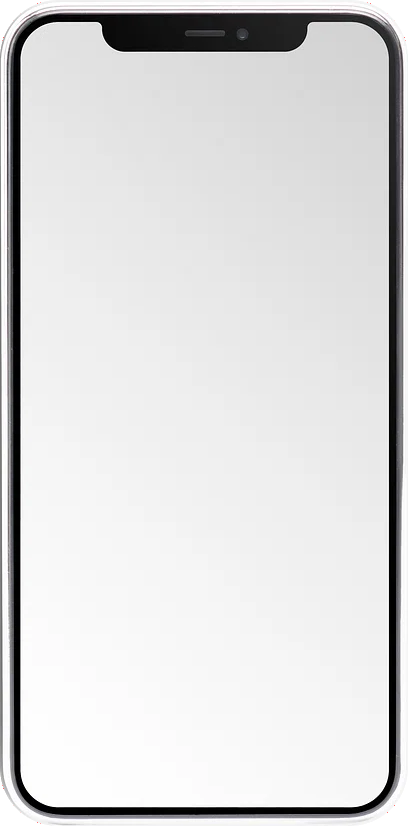
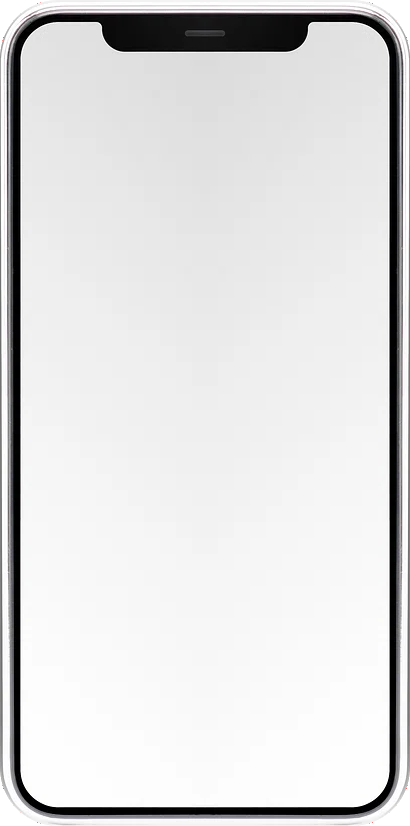
Tablet also.

Changed region(s): [[0.7059, 0.0, 1.0, 0.9685], [0.8235, 0.9685, 0.9118, 0.9988], [0.5882, 0.0303, 0.6176, 0.0605]]

diff --git a/iaconsole.py b/iaconsole.py
@@ -43,8 +43,8 @@ class MainWindow(QMainWindow):
         self.setWindowTitle("iaconsole")
 
         # preload background image pixmap
-        self.backgroundImage = QPixmap("assets/iaconsole-bg.png")
-        self.setGeometry(500, 100,
+        self.backgroundImage = QPixmap("assets/iaconsole-tablet.png")
+        self.setGeometry(300, 100,
                          self.backgroundImage.size().width(), self.backgroundImage.size().height())
         self.setWindowOpacity(0.0)
         self.setAttribute(Qt.WA_NoSystemBackground, True)
@@ -77,24 +77,26 @@ class MainWindow(QMainWindow):
         foregroundWidget.setSizePolicy(QSizePolicy.Expanding, QSizePolicy.Expanding)
 
         foregroundWidgetLayout = QVBoxLayout()
-        foregroundWidgetLayout.setContentsMargins(20, 60, 19, 50)
+        foregroundWidgetLayout.setContentsMargins(20, 60, 20, 50)
         foregroundWidgetLayout.setSpacing(0)
 
         primaryToolbar = QToolBar()
         foregroundWidgetLayout.addWidget(primaryToolbar)
-        foregroundWidgetLayout.setStretch(0, 0)
 
         primaryToolbarLayout = primaryToolbar.layout()
         primaryToolbarLayout.setSpacing(4)
 
-        foregroundWidgetLayout.addStretch(1)
-
-        foregroundWidgetLayout.setAlignment(Qt.AlignRight | Qt.AlignVCenter)
+        spacer = QWidget()
+        spacer.setSizePolicy(QSizePolicy.Policy.Expanding,
+                             QSizePolicy.Policy.Expanding)
+        primaryToolbar.addWidget(spacer)
 
         self.exitButton.setStyleSheet("border-radius: 14px; border: 1 solid #bbb; padding: 6px 10px;")
         # noinspection PyUnresolvedReferences
         self.exitButton.clicked.connect(lambda: sys.exit(0))
         primaryToolbar.addWidget(self.exitButton)
+
+        foregroundWidgetLayout.addStretch(1)
 
         foregroundWidget.setLayout(foregroundWidgetLayout)
 
